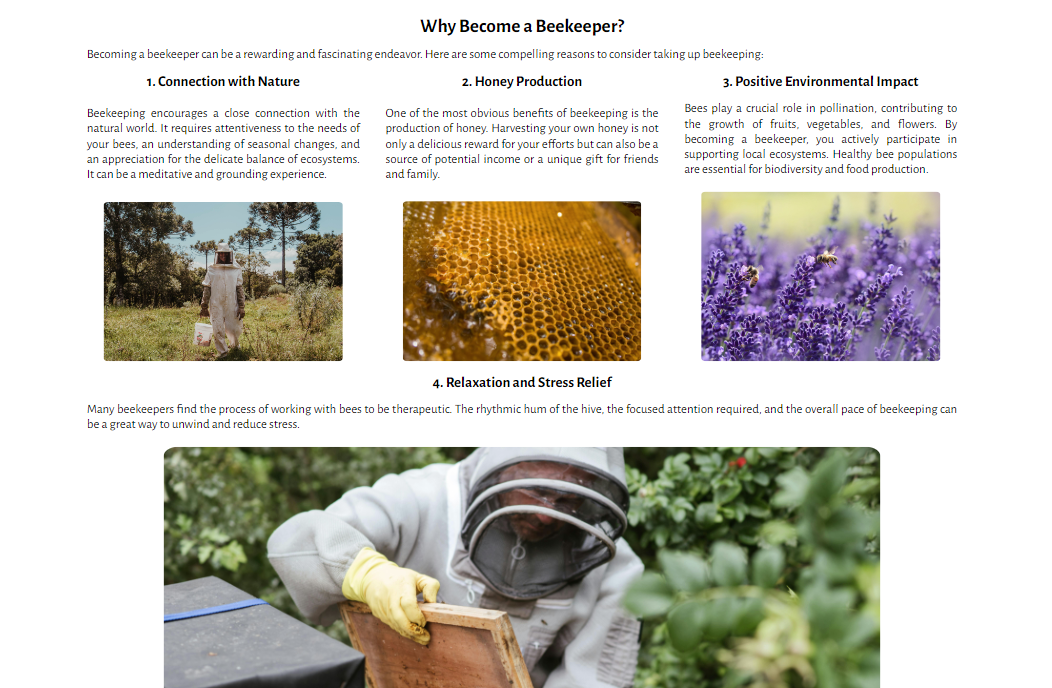
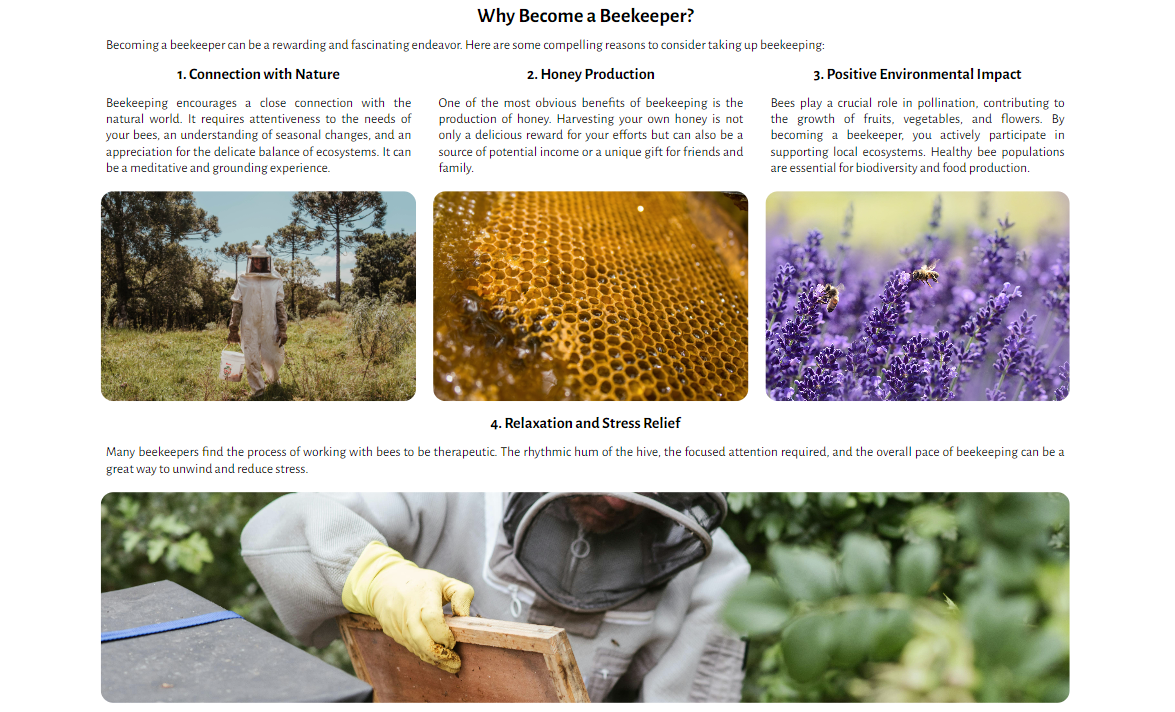
Fix: Remove redundant .why-divs class and update image in bugs directory

diff --git a/assets/css/style.css b/assets/css/style.css
@@ -194,12 +194,6 @@ li a {
     align-items: center;
 }
 
-.why-images {
-    border-radius: 2%;
-    width: 90%;
-    margin: 10px;
-}
-
 #sign-up-button {
     text-align: center;
     margin: 20px;
